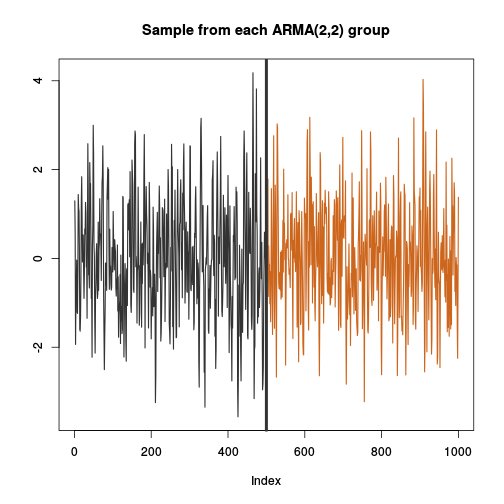
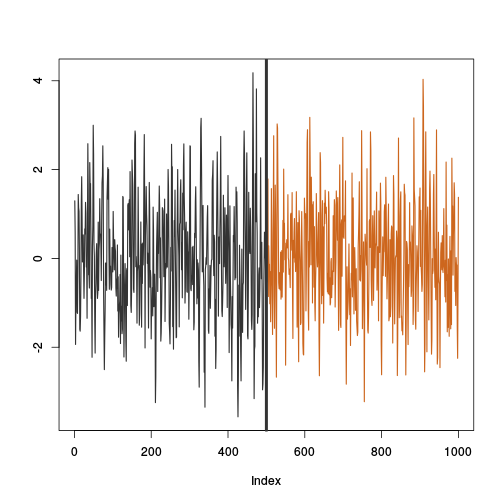
fig

Changed region(s): [[0.2679, 0.0298, 0.7738, 0.0893]]

diff --git a/README.md b/README.md
@@ -45,7 +45,6 @@ axis.
 
 ```r
 plot(c(group1[,1]), xlim = c(0,1000), ylab = "", 
-                                      main = title, 
                                       col = "gray20", 
                                       lwd = 1.5, type ='l')
 lines(501:1000, group2[,1], col = "chocolate3", lwd = 1.5)
